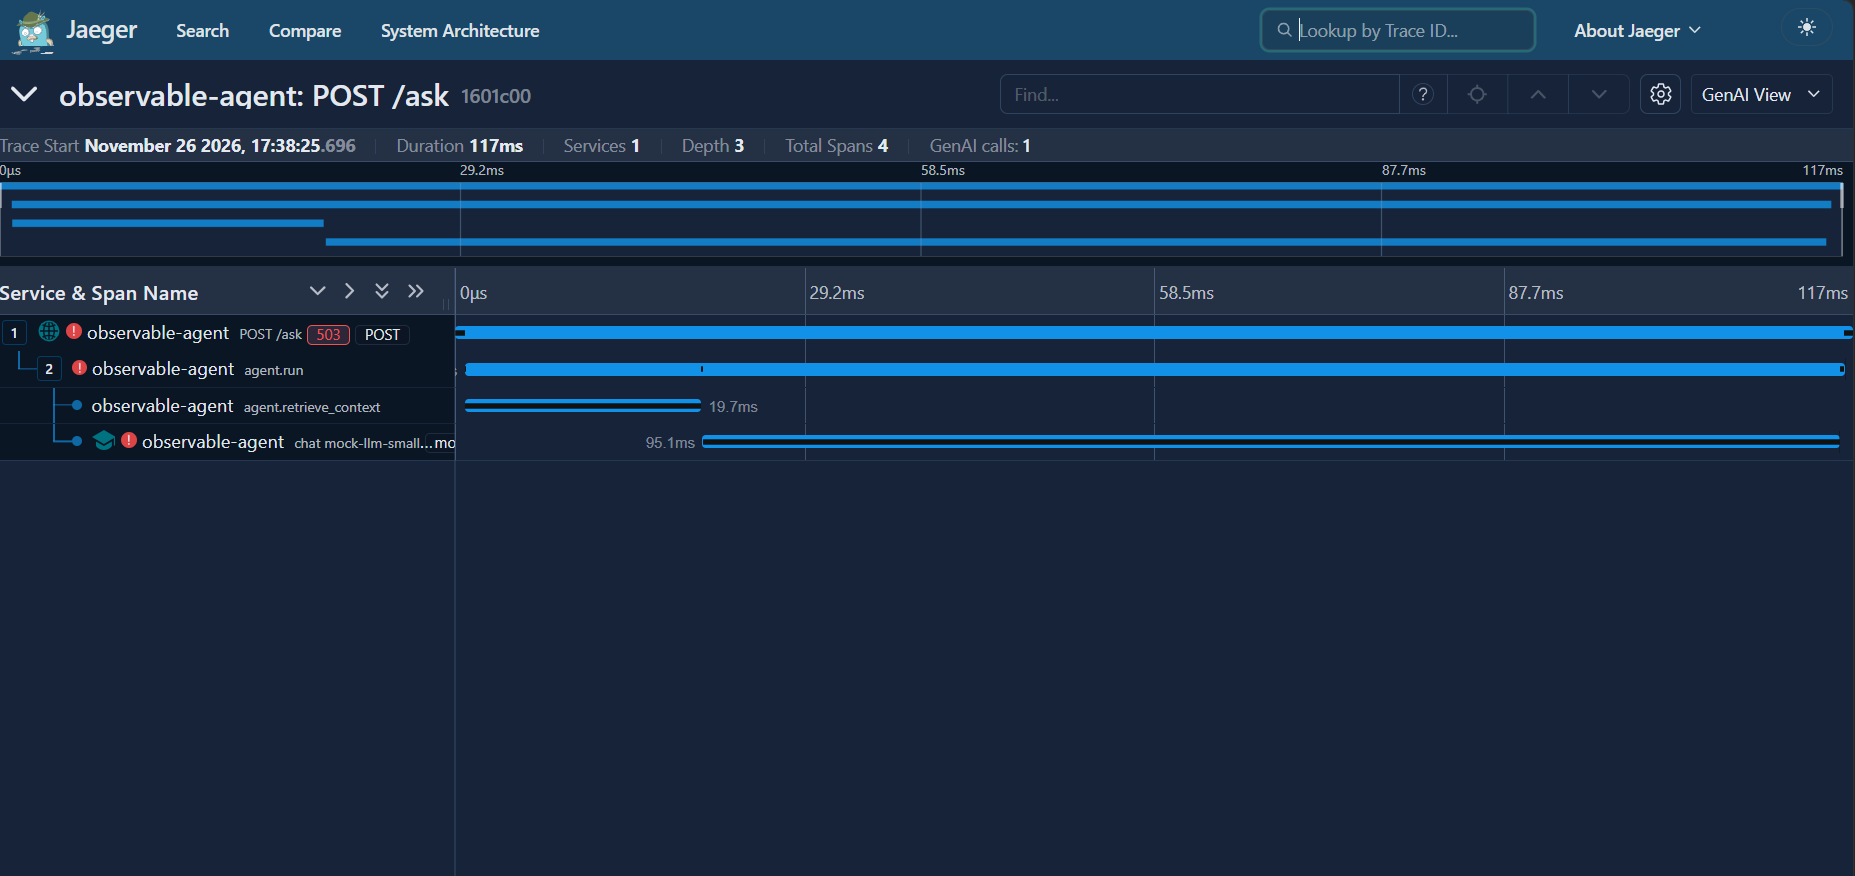
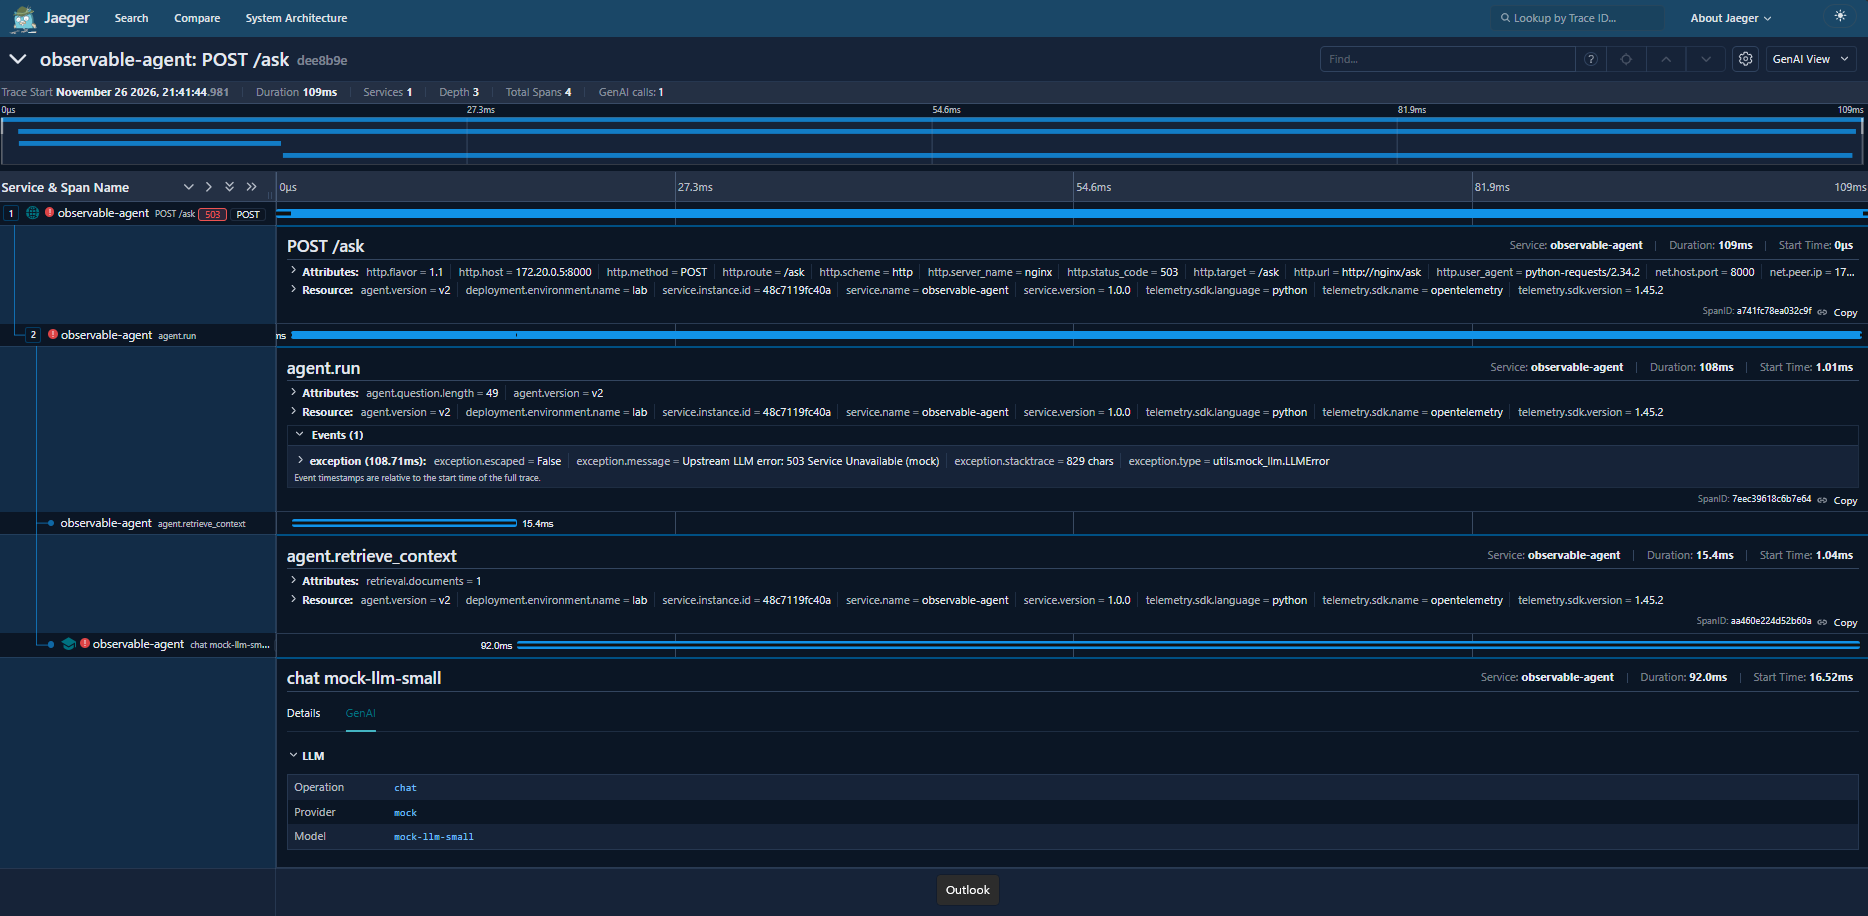
docs: refresh Jaeger trace evidence in benchmark report
Replace the slow and error trace screenshots with expanded spans (duration
and exception event visible) and update section 4.3 with the new trace IDs,
span timings and matching JSON log lines.

diff --git a/BENCHMARK_REPORT.md b/BENCHMARK_REPORT.md
@@ -131,22 +131,23 @@ Metric hạ tầng (error rate, latency, instance up) chỉ phản ánh việc a
 
 Chọn 1 trace chậm nhất bạn tìm được:
 
-- `trace_id`: `ff0f286815895d9a76e7efa955e35a73`
-- Tổng thời gian: 1715,7 ms
-- Span chiếm nhiều thời gian nhất: `chat mock-llm-small` (1691,7 ms, 98,6 %); các span còn lại: `agent.run` 1713,2 ms (span cha), `agent.retrieve_context` 21,3 ms (1,2 %)
+- `trace_id`: `7cadcda8be7f4fcc1d9a295c23672f32`
+- Tổng thời gian: 1743,4 ms
+- Span chiếm nhiều thời gian nhất: `chat mock-llm-small` (1713,3 ms, 98,3 %); các span còn lại: `agent.run` 1739,2 ms (span cha), `agent.retrieve_context` 25,5 ms (1,5 %)
 - Dòng log tương ứng (grep theo `trace_id`):
 
 ```json
-{"ts": "2026-11-26T10:38:22.782862+00:00", "level": "INFO", "service": "observable-agent", "instance": "69a60aa5be18", "event": "llm_call", "trace_id": "ff0f286815895d9a76e7efa955e35a73", "span_id": "4eb1f84528cce3cf", "request_id": "d88ecc6608c1", "model": "mock-llm-small", "agent_version": "v2", "input_tokens": 74, "output_tokens": 37, "cost_usd": 3.3e-05, "llm_ms": 1690.9}
-{"ts": "2026-11-26T10:38:22.783551+00:00", "level": "INFO", "service": "observable-agent", "instance": "69a60aa5be18", "event": "http_request", "trace_id": "ff0f286815895d9a76e7efa955e35a73", "span_id": "4eb1f84528cce3cf", "request_id": "d88ecc6608c1", "method": "POST", "route": "/ask", "status": 200, "ms": 1714.8}
+{"ts": "2026-11-26T14:41:30.951241+00:00", "level": "INFO", "service": "observable-agent", "instance": "48c7119fc40a", "event": "llm_call", "trace_id": "7cadcda8be7f4fcc1d9a295c23672f32", "span_id": "f788e642881b9303", "request_id": "a31fea711771", "model": "mock-llm-small", "agent_version": "v2", "input_tokens": 83, "output_tokens": 44, "cost_usd": 3.9e-05, "llm_ms": 1668.4}
+{"ts": "2026-11-26T14:41:30.952897+00:00", "level": "INFO", "service": "observable-agent", "instance": "48c7119fc40a", "event": "http_request", "trace_id": "7cadcda8be7f4fcc1d9a295c23672f32", "span_id": "f788e642881b9303", "request_id": "a31fea711771", "method": "POST", "route": "/ask", "status": 200, "ms": 1742.2}
 ```
 
-Nhận xét: request chậm do bước gọi LLM (`llm_ms` 1690,9 ms), không phải do code của agent hay bước retrieval.
+Nhận xét: request chậm do bước gọi LLM, không phải do code của agent hay bước retrieval. Con số `llm_ms` trong log (1668,4 ms) và thời gian span `chat mock-llm-small` (1713,3 ms) lệch nhau khoảng 45 ms; tôi chưa tìm nguyên nhân (có thể hai phép đo bắt đầu và kết thúc ở các điểm khác nhau của luồng gọi), nhưng cả hai đều chỉ ra bước LLM chiếm gần như toàn bộ thời gian. Ảnh: `screenshots/jaeger-slow-trace.png`.
 
-Trace lỗi (cho `jaeger-error-trace.png`): `trace_id` `1601c007f9c384a991f322698c7dbc6c`, 116,9 ms, span `chat mock-llm-small` có event `exception` (`utils.mock_llm.LLMError`: "Upstream LLM error: 503 Service Unavailable (mock)"). Dòng log JSON cùng `trace_id`:
+Trace lỗi (cho `screenshots/jaeger-error-trace.png`): `trace_id` `dee8b9e6724a77945e38481adaaa2164`, tổng 109,2 ms, trả HTTP 503; span `chat mock-llm-small` bị đánh dấu lỗi (92,0 ms) và event `exception` (`utils.mock_llm.LLMError`: "Upstream LLM error: 503 Service Unavailable (mock)") hiển thị trong `Events` của span `agent.run`. Dòng log JSON cùng `trace_id`:
 
 ```json
-{"ts": "2026-11-26T10:38:25.812731+00:00", "level": "INFO", "service": "observable-agent", "instance": "ff9dbdd06a26", "event": "llm_error", "trace_id": "1601c007f9c384a991f322698c7dbc6c", "span_id": "c8264fe6b39f4cbb", "request_id": "504e01a8a8ed", "error": "Upstream LLM error: 503 Service Unavailable (mock)"}
+{"ts": "2026-11-26T14:41:45.090118+00:00", "level": "INFO", "service": "observable-agent", "instance": "48c7119fc40a", "event": "llm_error", "trace_id": "dee8b9e6724a77945e38481adaaa2164", "span_id": "a741fc78ea032c9f", "request_id": "cb6fd519e7fc", "error": "Upstream LLM error: 503 Service Unavailable (mock)"}
+{"ts": "2026-11-26T14:41:45.090335+00:00", "level": "INFO", "service": "observable-agent", "instance": "48c7119fc40a", "event": "http_request", "trace_id": "dee8b9e6724a77945e38481adaaa2164", "span_id": "a741fc78ea032c9f", "request_id": "cb6fd519e7fc", "method": "POST", "route": "/ask", "status": 503, "ms": 108.8}
 ```
 
 ---
